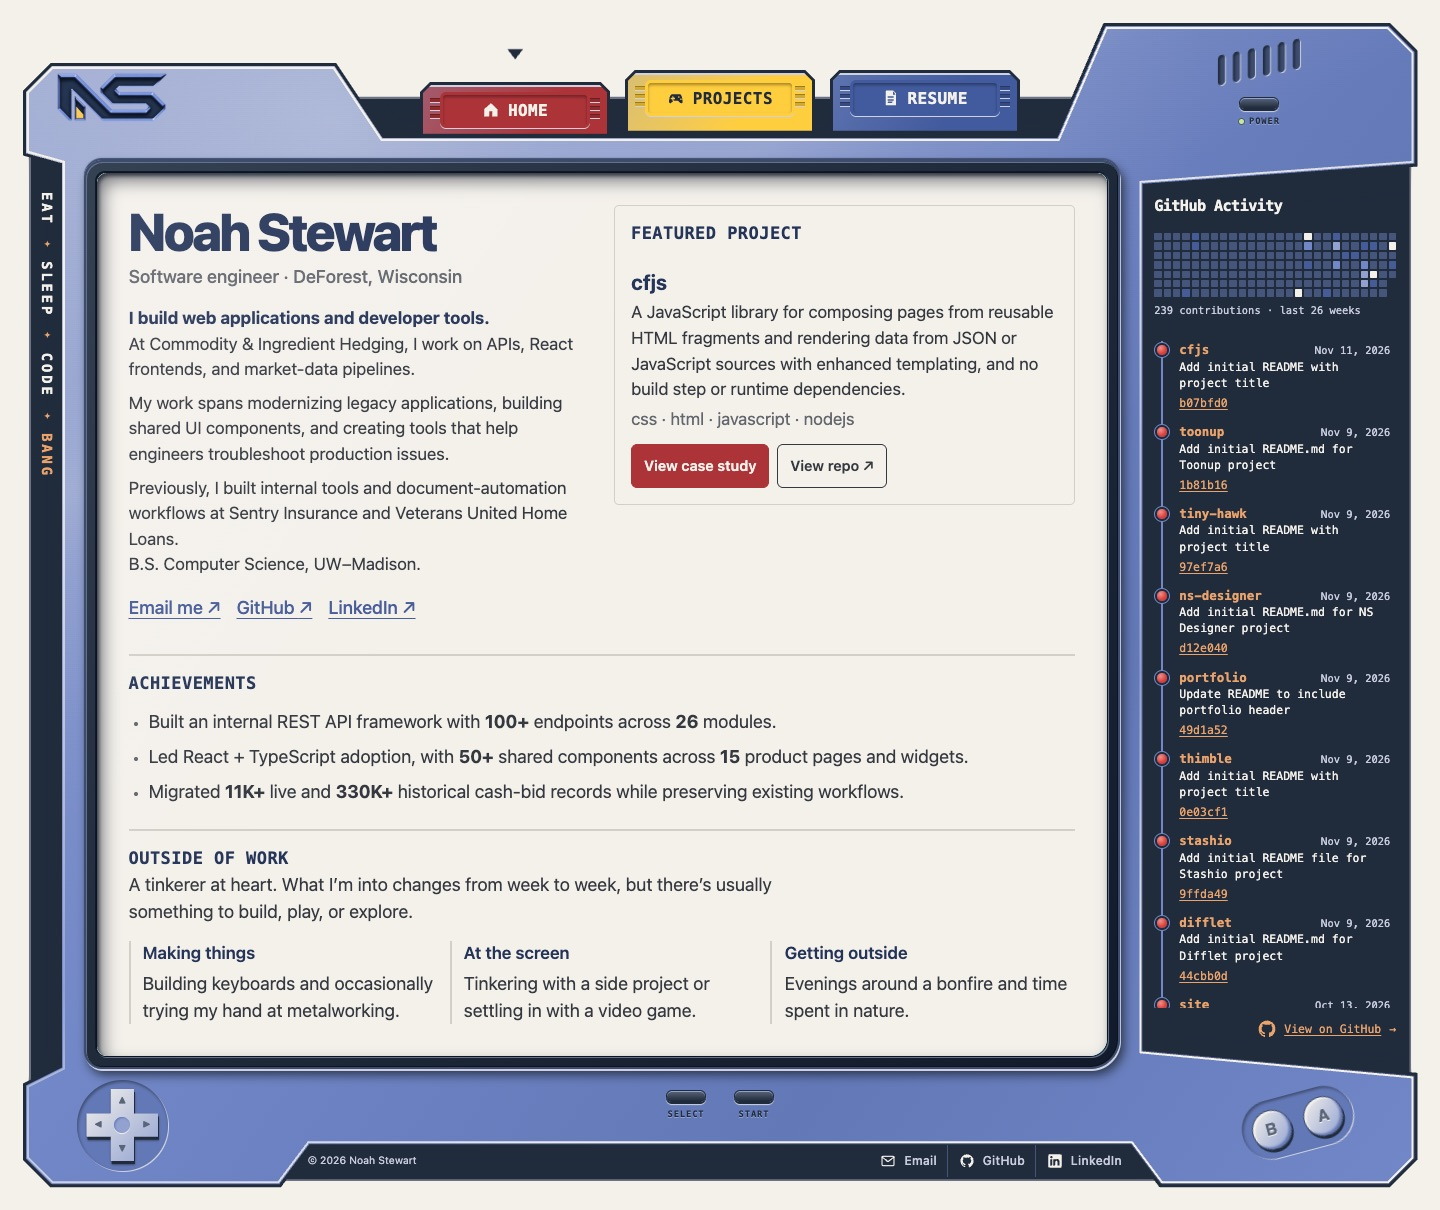
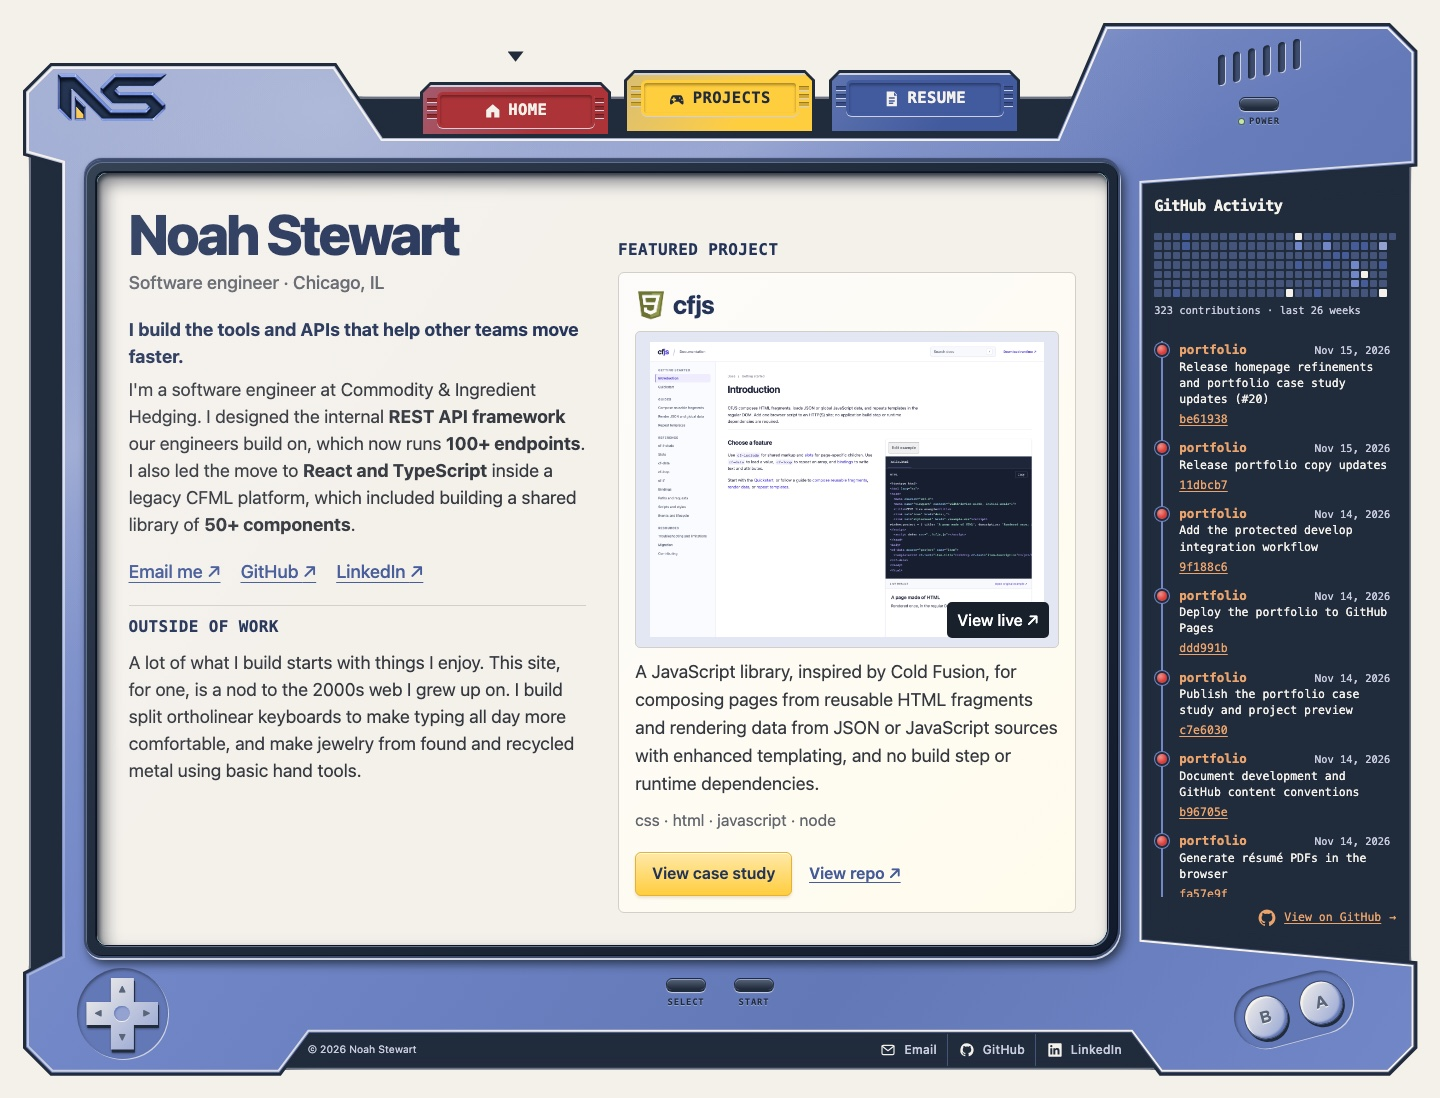
Release resume updates and refreshed sharing previews (#23)
* Update portfolio copy and the case study estimate

Remove the AI triage integration from the homepage and shared résumé data, and describe the shell design tool as taking a day rather than days.

* Show broader portfolio design directions and credit Nintendo (#18)

* Show broader design directions and credit Nintendo inspiration

* Focus the case study introduction on finishing projects

* Include revised case study introduction and motivation

---------

* Refine homepage about content and responsive layout (#19)

* Update homepage bio with current engineering work

* Place compact achievement bullets below contact links

* Unify homepage introduction and accent achievement bullets

* Combine professional introduction and personal interests

* Refine about emphasis and responsive section order

* Keep key about phrases together and tighten section spacing

* Prevent featured card height from stretching about spacing

---------

* Update resume links, portfolio screenshots, and sharing previews (#22)

* Separate resume contacts from location and update portfolio URL

* Update LinkedIn profile links to noshpotosh

* Compact resume contact row and refresh homepage screenshots

* Set explicit social sharing metadata and homepage image

---------

---------

Changed region(s): [[0.0, 0.0, 1.0, 0.9909], [0.9062, 0.4026, 0.9688, 0.4335], [0.9688, 0.031, 1.0, 0.0619]]

diff --git a/src/index.html b/src/index.html
@@ -4,6 +4,44 @@
         <meta charset="UTF-8" />
         <meta name="viewport" content="width=device-width, initial-scale=1" />
         <title>Noah Stewart — Portfolio</title>
+        <meta
+            name="description"
+            content="Software engineer building tools and APIs that help other teams move faster. Explore Noah Stewart's projects, case studies, and résumé."
+        />
+        <link rel="canonical" href="https://noshpotosh.github.io/portfolio/" />
+        <meta property="og:type" content="website" />
+        <meta property="og:site_name" content="Noah Stewart — Portfolio" />
+        <meta property="og:title" content="Noah Stewart — Portfolio" />
+        <meta
+            property="og:description"
+            content="Software engineer building tools and APIs that help other teams move faster. Explore Noah Stewart's projects, case studies, and résumé."
+        />
+        <meta property="og:url" content="https://noshpotosh.github.io/portfolio/" />
+        <meta
+            property="og:image"
+            content="https://noshpotosh.github.io/portfolio/assets/homepage-share.jpg"
+        />
+        <meta property="og:image:type" content="image/jpeg" />
+        <meta property="og:image:width" content="1440" />
+        <meta property="og:image:height" content="1080" />
+        <meta
+            property="og:image:alt"
+            content="Noah Stewart's portfolio homepage in a blue handheld-console frame, with an introduction, featured project, and GitHub activity."
+        />
+        <meta name="twitter:card" content="summary_large_image" />
+        <meta name="twitter:title" content="Noah Stewart — Portfolio" />
+        <meta
+            name="twitter:description"
+            content="Software engineer building tools and APIs that help other teams move faster. Explore Noah Stewart's projects, case studies, and résumé."
+        />
+        <meta
+            name="twitter:image"
+            content="https://noshpotosh.github.io/portfolio/assets/homepage-share.jpg"
+        />
+        <meta
+            name="twitter:image:alt"
+            content="Noah Stewart's portfolio homepage in a blue handheld-console frame, with an introduction, featured project, and GitHub activity."
+        />
         <link rel="stylesheet" href="./styles/colors.css" />
         <link rel="stylesheet" href="./styles/global.css" />
         <link rel="stylesheet" href="./styles/compositions.css" />

diff --git a/src/pages/home.html b/src/pages/home.html
@@ -32,7 +32,7 @@
                 </li>
                 <li>
                     <a
-                        href="https://www.linkedin.com/in/noah-stewart-dev/"
+                        href="https://www.linkedin.com/in/noshpotosh/"
                         target="_blank"
                         rel="noopener noreferrer"
                         >LinkedIn <span aria-hidden="true">↗</span></a>

diff --git a/src/components/shell/bottom-rail.html b/src/components/shell/bottom-rail.html
@@ -77,7 +77,7 @@
         </a>
         <a
             class="bottomRail__link cluster"
-            href="https://www.linkedin.com/in/noah-stewart-dev/"
+            href="https://www.linkedin.com/in/noshpotosh/"
             target="_blank"
             rel="noopener noreferrer"
         >
